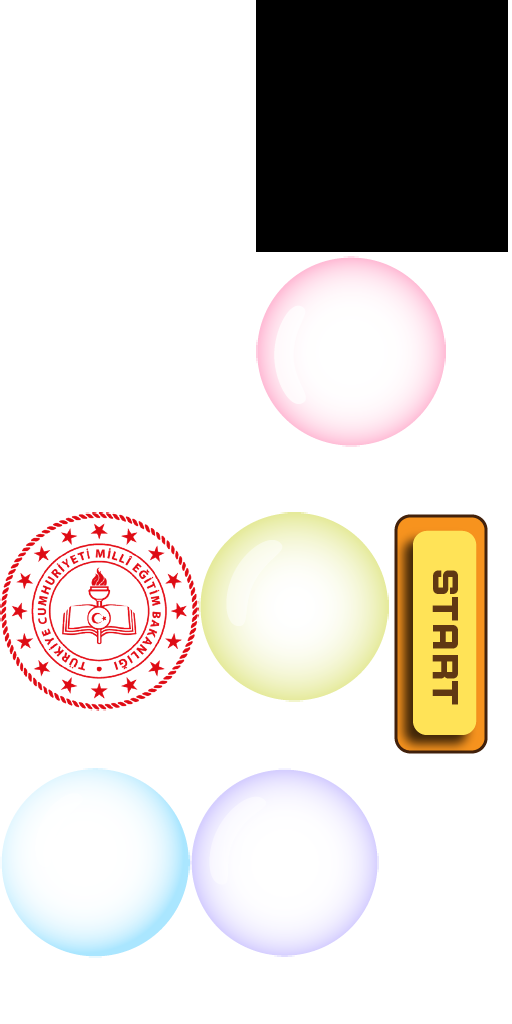
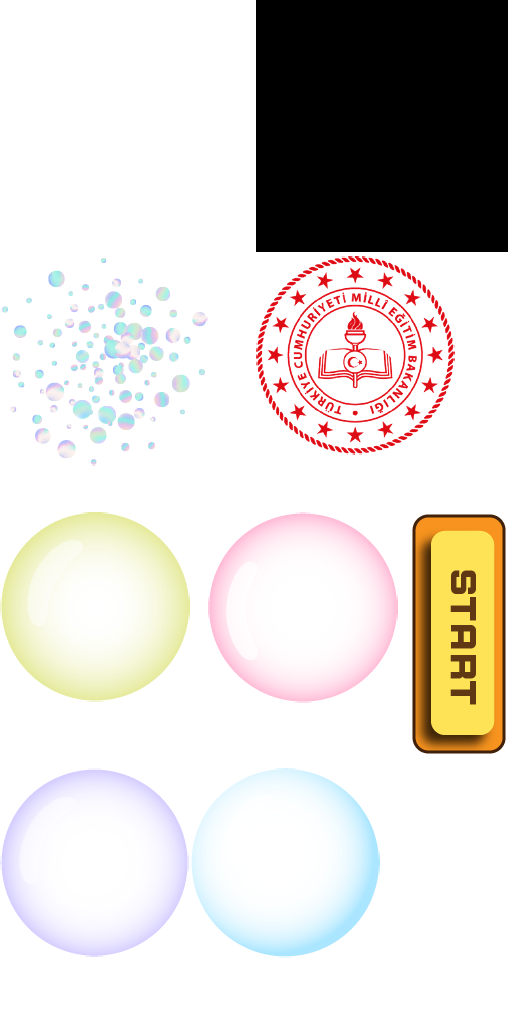
Patlama eklendi

diff --git a/scripts/c3runtime.js b/scripts/c3runtime.js
@@ -1410,6 +1410,7 @@ self.C3_ExpressionFuncs = [
 		() => -15,
 		() => 0,
 		() => "Başlangıç",
+		() => 5,
 		() => "kelimeler",
 		p => {
 			const f0 = p._GetNode(0).GetBoundMethod();
@@ -1419,7 +1420,10 @@ self.C3_ExpressionFuncs = [
 		() => "",
 		() => 9,
 		() => "Sistem",
-		() => 5,
+		p => {
+			const v0 = p._GetNode(0).GetVar();
+			return () => v0.GetValue();
+		},
 		p => {
 			const n0 = p._GetNode(0);
 			const n1 = p._GetNode(1);
@@ -1454,20 +1458,17 @@ self.C3_ExpressionFuncs = [
 			const n0 = p._GetNode(0);
 			return () => n0.ExpInstVar();
 		},
-		p => {
-			const v0 = p._GetNode(0).GetVar();
-			return () => v0.GetValue();
-		},
 		() => " ",
 		() => 0.2,
+		() => 2,
 		() => 0.5,
 		p => {
 			const f0 = p._GetNode(0).GetBoundMethod();
 			const v1 = p._GetNode(1).GetVar();
 			const f2 = p._GetNode(2).GetBoundMethod();
-			const f3 = p._GetNode(3).GetBoundMethod();
+			const v3 = p._GetNode(3).GetVar();
 			const v4 = p._GetNode(4).GetVar();
-			return () => f0(v1.GetValue(), f2(f3(v4.GetValue(), "")), "");
+			return () => f0(v1.GetValue(), f2(v3.GetValue(), (v4.GetValue() + 4)), "");
 		},
 		() => 6,
 		() => "size",
@@ -1483,9 +1484,9 @@ self.C3_ExpressionFuncs = [
 		},
 		p => {
 			const f0 = p._GetNode(0).GetBoundMethod();
-			return () => f0(1200, 1920);
+			return () => f0(1500, 2000);
 		},
-		() => -155,
+		() => -150,
 		() => 8,
 		p => {
 			const n0 = p._GetNode(0);
@@ -1502,7 +1503,7 @@ self.C3_ExpressionFuncs = [
 			const v2 = p._GetNode(2).GetVar();
 			const n3 = p._GetNode(3);
 			const f4 = p._GetNode(4).GetBoundMethod();
-			return () => (((f0() - (83 * f1(v2.GetValue(), ""))) / 2) + ((n3.ExpObject() + 90) * f4()));
+			return () => ((((f0() - (83 * f1(v2.GetValue(), ""))) / 2) + ((n3.ExpObject() + 88) * f4())) - 30);
 		},
 		() => 1000,
 		p => {
@@ -1515,14 +1516,19 @@ self.C3_ExpressionFuncs = [
 			const f0 = p._GetNode(0).GetBoundMethod();
 			return () => (0.3 * f0());
 		},
-		() => 2,
+		() => "cizgi",
 		() => "Balon Tıklanınca",
+		() => "Animation 2",
+		p => {
+			const n0 = p._GetNode(0);
+			return () => (n0.ExpObject() + 80);
+		},
+		() => 0.3,
 		p => {
 			const n0 = p._GetNode(0);
 			return () => (n0.ExpObject() - 50);
 		},
 		() => "Animation 1",
-		() => "Animation 2",
 		() => 960,
 		() => 540,
 		() => 1920,

diff --git a/scripts/objRefTable.js b/scripts/objRefTable.js
@@ -27,6 +27,7 @@ self.C3_GetObjectRefTable = function () {
 		C3.Plugins.System.Cnds.IsGroupActive,
 		C3.Plugins.Sprite.Acts.Destroy,
 		C3.Plugins.Text.Acts.Destroy,
+		C3.Plugins.System.Acts.SetVar,
 		C3.Plugins.AJAX.Acts.RequestFile,
 		C3.Plugins.AJAX.Cnds.OnComplete,
 		C3.Plugins.Arr.Acts.JSONLoad,
@@ -37,7 +38,7 @@ self.C3_GetObjectRefTable = function () {
 		C3.Plugins.System.Exps.loopindex,
 		C3.Plugins.Arr.Acts.Shuffle,
 		C3.Plugins.System.Acts.RestartLayout,
-		C3.Plugins.System.Acts.SetVar,
+		C3.Plugins.Arr.Cnds.CompareSize,
 		C3.Plugins.System.Acts.Wait,
 		C3.Plugins.Arr.Exps.At,
 		C3.Plugins.Arr.Exps.Back,
@@ -46,12 +47,14 @@ self.C3_GetObjectRefTable = function () {
 		C3.Behaviors.Flash.Acts.Flash,
 		C3.Plugins.System.Exps.tokencount,
 		C3.Plugins.Arr.Acts.Pop,
+		C3.Plugins.System.Cnds.Else,
 		C3.Plugins.System.Cnds.Every,
 		C3.Plugins.System.Exps.random,
 		C3.Plugins.Sprite.Acts.Spawn,
 		C3.Plugins.System.Cnds.PickByComparison,
 		C3.Plugins.System.Cnds.Compare,
 		C3.Plugins.System.Acts.AddVar,
+		C3.Plugins.System.Acts.SetBoolVar,
 		C3.Plugins.System.Cnds.PickAll,
 		C3.Plugins.Sprite.Cnds.OnCreated,
 		C3.Plugins.Sprite.Acts.SetInstanceVar,
@@ -70,17 +73,16 @@ self.C3_GetObjectRefTable = function () {
 		C3.Plugins.System.Acts.CreateObject,
 		C3.Plugins.System.Exps.layoutwidth,
 		C3.Plugins.Sprite.Exps.Width,
+		C3.Plugins.Sprite.Acts.SetAnim,
 		C3.Plugins.Sprite.Exps.X,
 		C3.Plugins.Sprite.Exps.Y,
+		C3.Behaviors.Tween.Cnds.OnTweensFinished,
 		C3.Plugins.Mouse.Cnds.IsOverObject,
 		C3.Plugins.Mouse.Acts.SetCursor,
-		C3.Plugins.System.Cnds.Else,
 		C3.Plugins.Browser.Cnds.IsFullscreen,
 		C3.Plugins.Browser.Acts.CancelFullScreen,
-		C3.Plugins.Sprite.Acts.SetAnim,
 		C3.Plugins.Browser.Acts.RequestFullScreen,
 		C3.Plugins.Audio.Acts.SetPaused,
-		C3.Plugins.System.Acts.SetBoolVar,
 		C3.Plugins.Sprite.Acts.SetPos,
 		C3.Plugins.System.Cnds.EveryTick,
 		C3.Plugins.System.Acts.ResetGlobals
@@ -129,6 +131,8 @@ self.C3_JsPropNameTable = [
 	{AnaSayfaGorseller: 0},
 	{rastgeleHarflerKelime: 0},
 	{harfSayisi: 0},
+	{tiklanabilir: 0},
+	{sure: 0},
 	{kelime: 0},
 	{musicDurum: 0}
 ];
